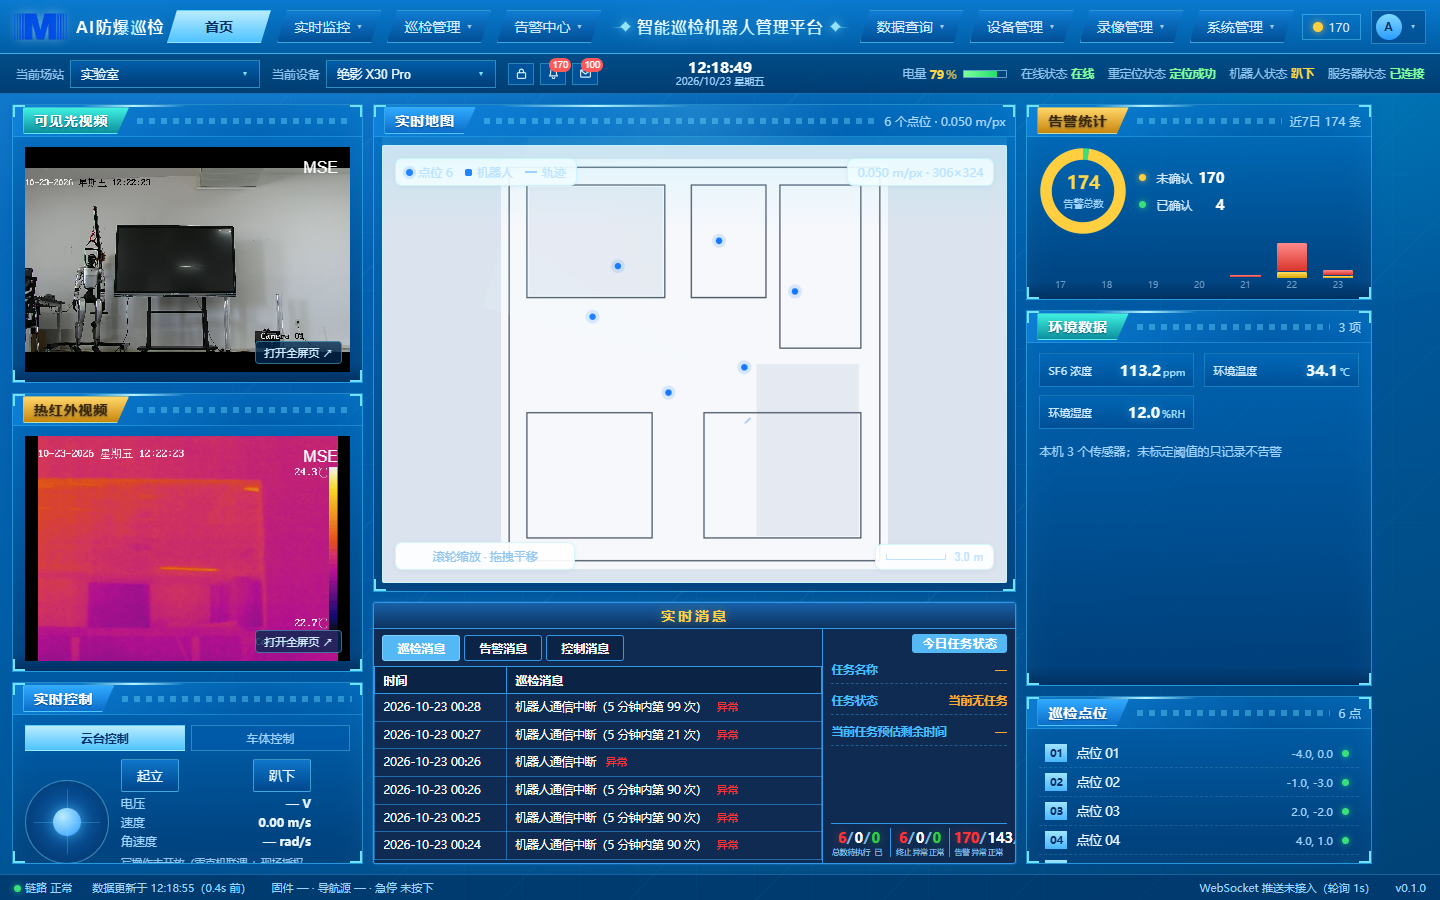
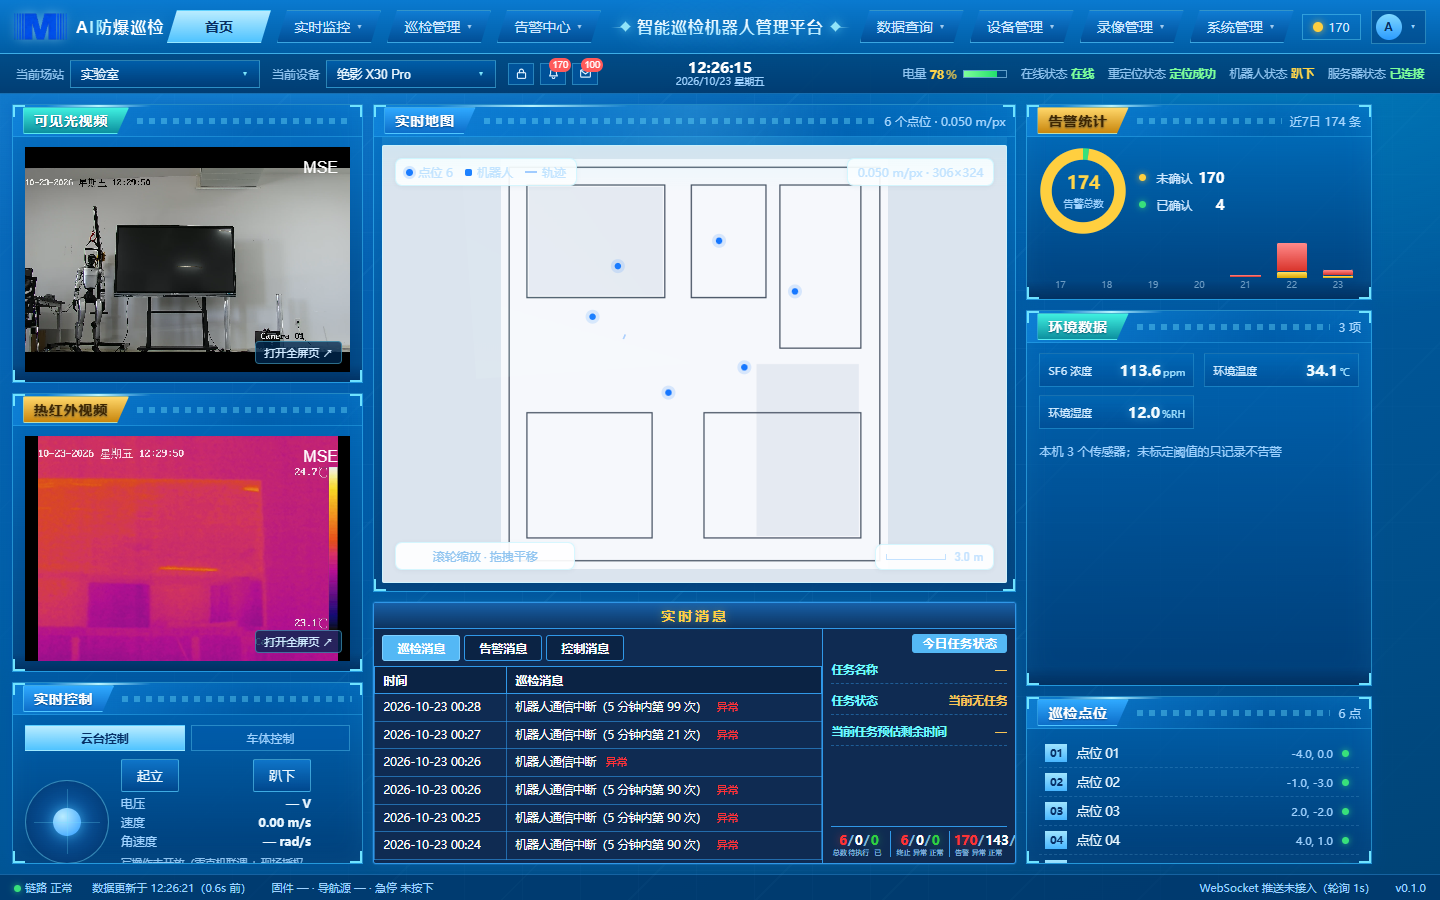
style(dashboard): 今日任务状态配色按用户指定
- 左侧标签（任务名称/任务状态/当前任务预估剩余时间）：#48BCFF → #71F9FF
- 右侧值：#FFA82E → #F7C355

diff --git a/web/src/pages/Dashboard.vue b/web/src/pages/Dashboard.vue
@@ -1347,9 +1347,9 @@ async function logout() {
   border-bottom: 1px dashed rgba(48, 152, 232, .45);   /* 行分隔线 */
 }
 .rt-line:last-of-type { border-bottom: 0; }
-.rt-line span { color: #48bcff; white-space: nowrap; font-weight: 700; }
+.rt-line span { color: #71f9ff; white-space: nowrap; font-weight: 700; }
 .rt-line b {
-  color: #ffa82e; font-weight: 800; letter-spacing: .3px; text-align: right; max-width: 62%;
+  color: #f7c355; font-weight: 800; letter-spacing: .3px; text-align: right; max-width: 62%;
   overflow: hidden; text-overflow: ellipsis; white-space: nowrap;
 }
 .rt-groups { display: grid; grid-template-columns: repeat(3, minmax(0, 1fr)); gap: 0; margin-top: auto; flex: none;
